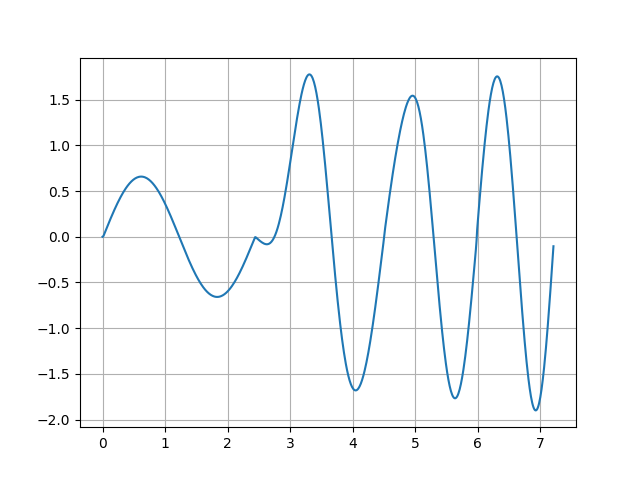
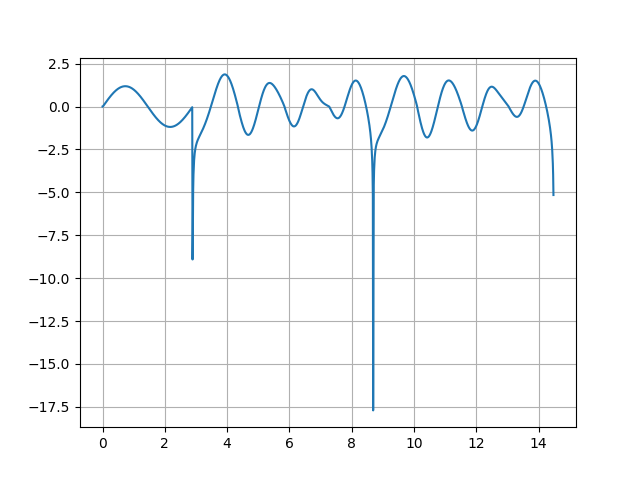
fix plot

diff --git a/main.py b/main.py
@@ -179,31 +179,50 @@ def plot_recorded_data(des_q0, des_q1, Tc):
     # 1. Actual Time Axis
     t0 = rec_data['t'][0]
     t_act = np.array([ti - t0 for ti in rec_data['t']])
+    q0_act = np.array(rec_data['q0'])
     
     # 2. Desired Time Axis
     t_des = np.array([i * Tc for i in range(len(des_q0))])
+    q0_des = np.array(des_q0)
 
-    # 3. Alignment Logic (Cross-Correlation)
-    # Interpolate actual q0 onto desired time grid for correlation
+    # 3. Alignment Logic (Start/End Scaling)
     try:
-        if len(t_act) > 10: # Ensure enough points
-            q0_act_interp = np.interp(t_des, t_act, rec_data['q0'])
+        # Helper to find active duration based on velocity
+        def get_active_bounds(t, q, threshold=0.05):
+            # Calculate velocity (simple difference)
+            vel = np.gradient(q) 
+            # Normalize velocity to find significant movement
+            max_vel = np.max(np.abs(vel))
+            if max_vel == 0: return 0, len(t)-1
             
-            # Compute cross-correlation
-            # q0_act_interp is "signal", des_q0 is "reference"
-            # Remove mean to focus on shape
-            signal = q0_act_interp - np.mean(q0_act_interp)
-            reference = np.array(des_q0) - np.mean(des_q0)
+            is_moving = np.abs(vel) > max_vel * threshold
+            indices = np.where(is_moving)[0]
             
-            corr = np.correlate(signal, reference, mode='full')
-            lag_idx = np.argmax(corr) - (len(reference) - 1)
+            if len(indices) < 2:
+                return 0, len(t)-1
             
-            lag_time = lag_idx * Tc
-            print(f"Detected Temporal Lag: {lag_time:.4f} s")
+            return indices[0], indices[-1]
+
+        # Find bounds in indices
+        idx_s_des, idx_e_des = get_active_bounds(t_des, q0_des)
+        idx_s_act, idx_e_act = get_active_bounds(t_act, q0_act)
+        
+        # Get times
+        t_s_des, t_e_des = t_des[idx_s_des], t_des[idx_e_des]
+        t_s_act, t_e_act = t_act[idx_s_act], t_act[idx_e_act]
+        
+        dur_des = t_e_des - t_s_des
+        dur_act = t_e_act - t_s_act
+        
+        if dur_act > 0.1: # Avoid div by zero
+            scale = dur_des / dur_act
+            shift = t_s_des - (t_s_act * scale)
             
-            # Correct the time axis for actual data
-            # If lag is positive, signal is delayed (to the right). We subtract lag to move it left.
-            t_act = t_act - lag_time
+            print(f"Aligning: Scale={scale:.4f}, Shift={shift:.4f}")
+            
+            # Apply transformation
+            t_act = t_act * scale + shift
+            
     except Exception as e:
         print(f"Alignment failed: {e}")
 
@@ -267,6 +286,7 @@ def send_data(msg_type: str, **data):
             global recording_active, rec_data
             rec_data = {'q0': [], 'q1': [], 't': []} # Clear buffer
             recording_active = True
+            start_time = time()
             
             sent_count = 0
             initial_fill = min(num_points, FIRMWARE_BUFFER_SIZE - 5)
@@ -325,6 +345,15 @@ def send_data(msg_type: str, **data):
                     print(f"Progress: {sent_count}/{num_points}")
 
             print(f"TRJ SENT COMPLETE: {num_points} points")
+            
+            # Wait for the trajectory to finish physically
+            total_duration = num_points * settings['Tc']
+            elapsed = time() - start_time
+            remaining = total_duration - elapsed
+            
+            if remaining > 0:
+                print(f"Waiting for trajectory to finish: {remaining:.2f}s")
+                tsleep(remaining + 0.5) # Add 0.5s margin
             
             recording_active = False
             # Pass desired trajectory data to plotter
